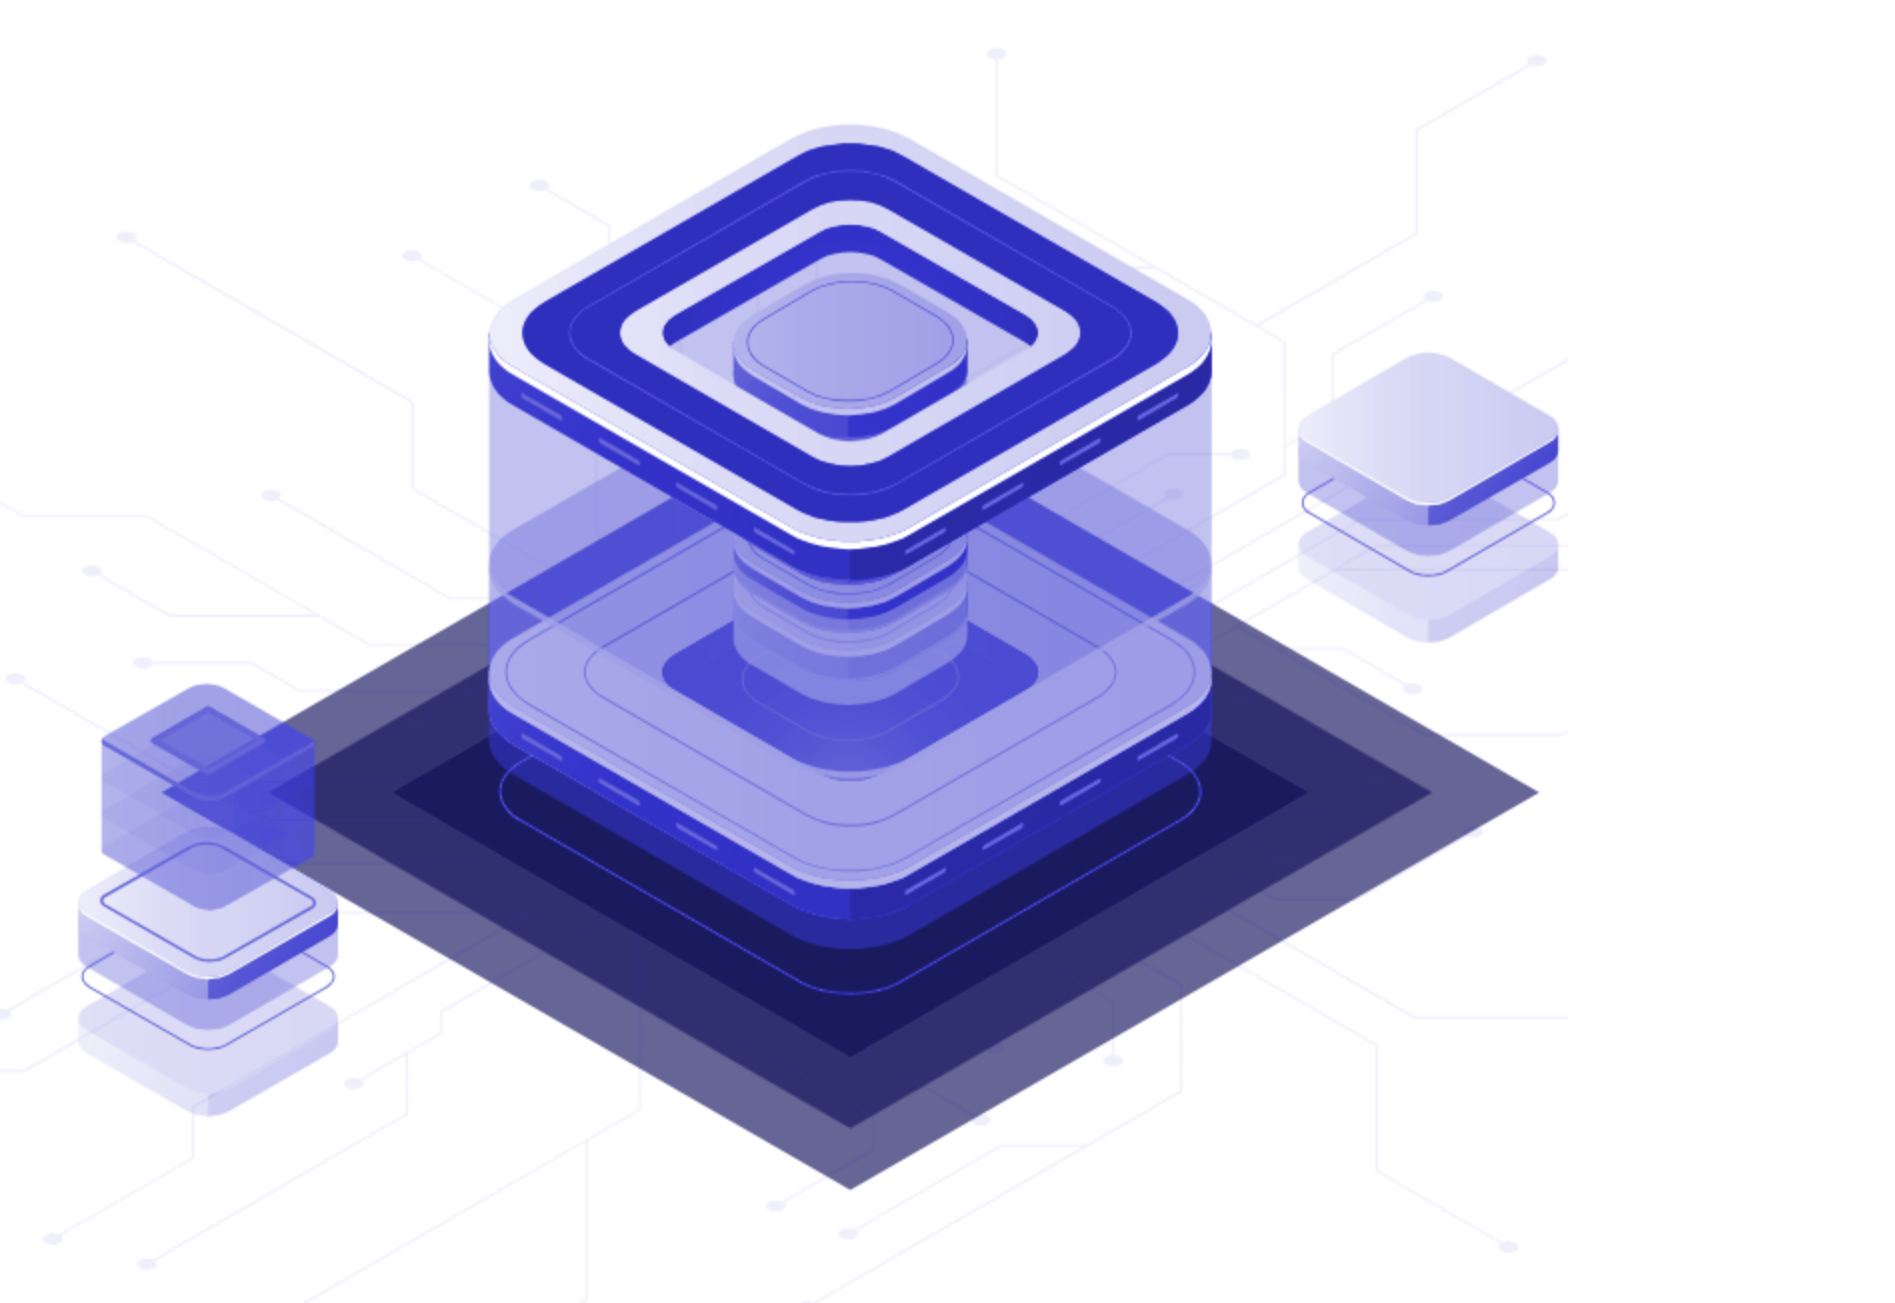
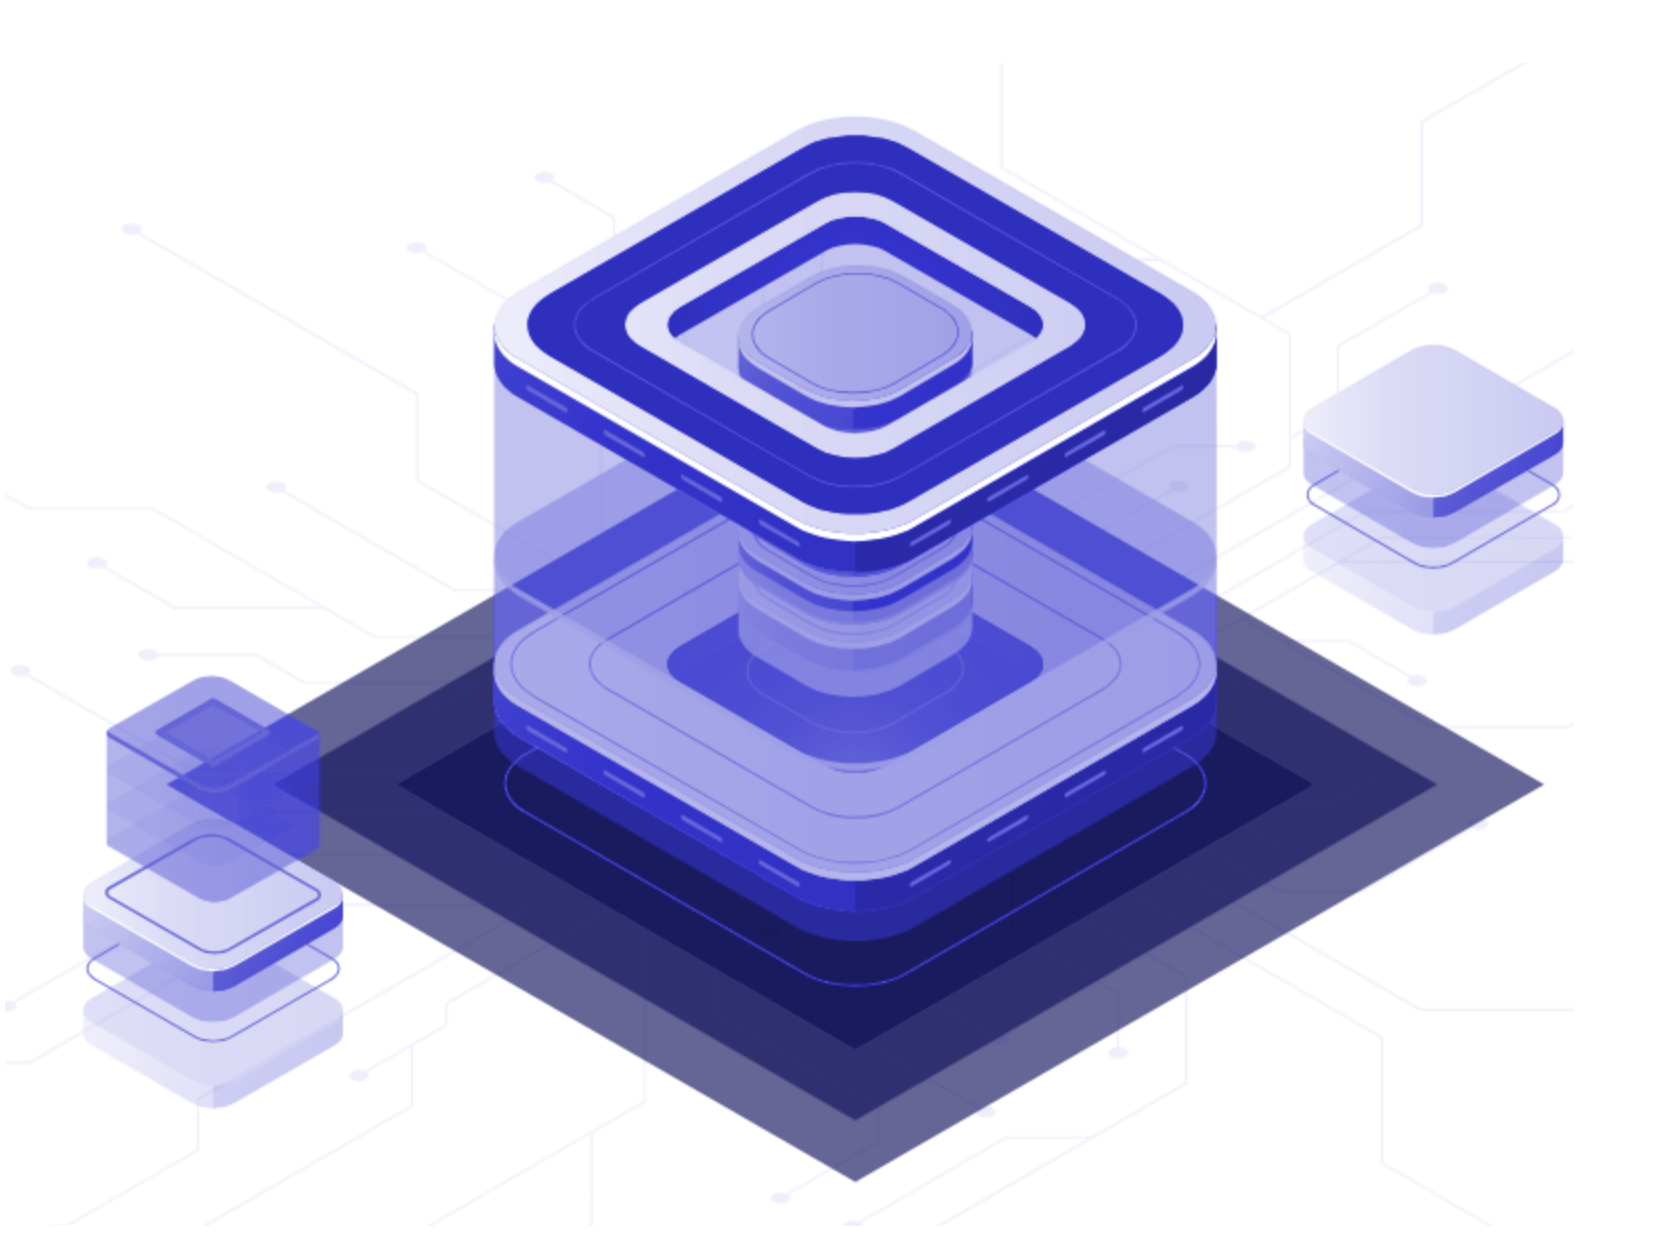
Update landing page

diff --git a/overrides/home.html b/overrides/home.html
@@ -74,7 +74,7 @@
         .mdx-hero__image {
             order: 1;
             transform: translateX(4rem);
-            width: 38rem;
+            width: 65rem;
             display: flex;
             align-items: center;
         }
@@ -124,7 +124,7 @@
                 <p>{{ config.site_description }}</p>
 
                 <a href="{{ page.next_page.url | url }}" class="md-button md-button--primary">
-                    Quick Start
+                    Learn More
                 </a>
 
                 <a href="https://github.com/mendax1234/hydra-v" class="md-button">
